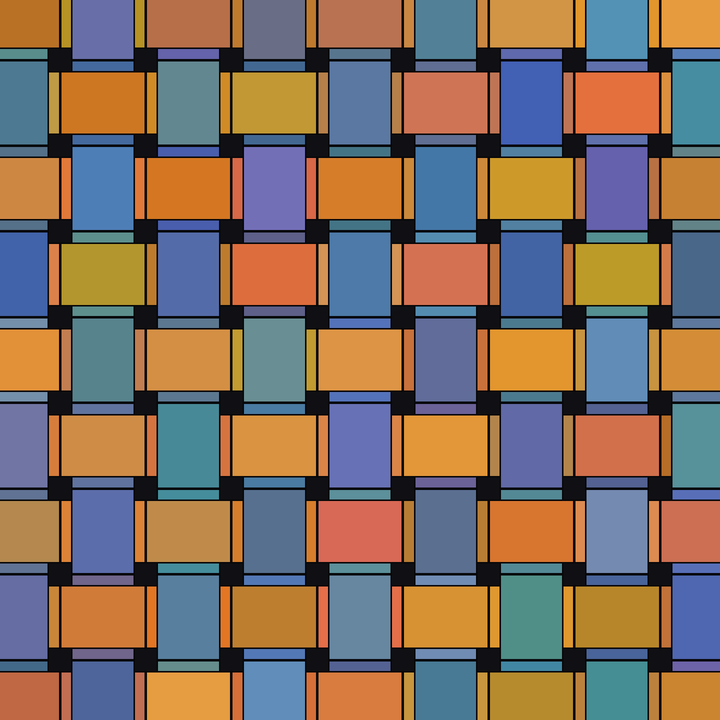
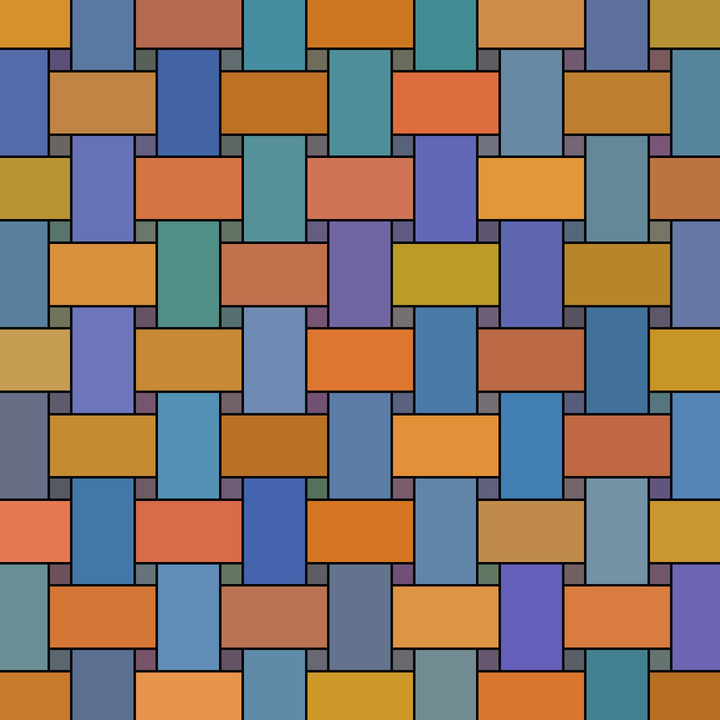
feat(shapes): wire voderberg + escher_lizard + weave (rejestr=35)
Ostatnie trzy ksztalty Fable z gotowa geometria w gen_fable_shape_schemes.

- voderberg: pierscienie wygietych klinow, wlasna liczba klinow na pierscien
  (~2*pi*r_mid/tang) => stala wielkosc komorki na kazdym promieniu; srodek =
  kliny zbiegajace sie w biegunie (arc_in pusty przy rin=0). Dwie stale ze
  schematu musialy stac sie zalezne od promienia: wygiecie krawedzi radialnej
  (stale 5 deg rozplaszczyloby kliny w luki przy skali kadru) i lista promieni
  -> stala grubosc pierscienia sqrt(2)*base_s, wygiecie jako jej ulamek
  (kliny 2:1 o polu ~base_s^2). Luki przez _sun_arc (sub-px, T-junctions OK).
- escher_lizard: port 1:1 (p1, deformacja heksagonu, translacje) ze skala
  s = base_s/sqrt(3*sqrt(3)/2).
- weave: PRZEBUDOWANY NA PARTYCJE. Schemat falszowal przeplot kolejnoscia
  malowania (skrzyzowania malowane 2x) i zostawial dziury tla — w silniku to
  dwa zdjecia na tych samych pikselach + czarne kwadraty. Komorka = WIDOCZNY
  kawalek wstegi (w x (2*pitch-w) na skrzyzowaniu "nad"; parzystosc (i+j)
  przydziela kazde skrzyzowanie dokladnie raz) + komorka-wezel (pitch-w)^2 w
  szczelinie. gen_weave i assets/shape_schemes/weave.png zregenerowane z tej
  samej geometrii — GUI pokazuje to, co silnik renderuje. Pozostale 9 schematow
  Fable zregenerowaly sie bit-w-bit (dowod determinizmu).

Bramki: rasteryzacja pokrycia (escher/weave 0% dziur, voderberg 0.01% / max 8 px
= sub-px T-junctions na lukach, mniej niz zaakceptowany sunburst 0.04%/11 px);
[…]

diff --git a/src/engine_smart.py b/src/engine_smart.py
@@ -1025,6 +1025,144 @@ def _gen_sunburst(engine, target_w, target_h, base_s):
         yield [(cx, cy)] + _sun_arc(r_in, a0, a1, cx, cy, seg)
 
 
+# --- Voderberg / escher_lizard / weave (last three Fable shapes) -----------
+# voderberg + escher_lizard are ported straight from gen_fable_shape_schemes.py
+# (image space, y-down, so the on-screen chirality matches the scheme PNGs);
+# only the hard-coded scheme scale is replaced by a base_s-driven one.
+def _gen_voderberg(engine, target_w, target_h, base_s):
+    """Voderberg-style spiral of bent slivers: concentric rings about the frame
+    centre, each ring split into its OWN wedge count (~2*pi*r_mid / tangential
+    size), so cells keep a constant size at every radius and the centre is a
+    ring of same-shaped slivers converging at the pole (the approved 'good
+    centre' pattern; ring 0 starts at r = 0, so `arc_in` is empty there).
+
+    Two scheme constants must become radius-relative in the engine, or they
+    break at frame scale: the radial edge bow was a fixed 5 deg (its lateral
+    size would then grow with r and the slivers would flatten into arcs), and
+    the ring radii were a fixed list. Here the ring thickness is constant
+    (sqrt(2)*base_s) and the bow is a fixed fraction of it, giving ~2:1 slivers
+    of area ~ base_s^2 everywhere. The two radial edges of a wedge are the same
+    curve shifted by one angular step, so they can never cross.
+
+    Ring boundaries are circles shared by rings with different wedge counts ->
+    T-junctions on the arcs, which is fine for a partition (the sunburst /
+    sierpinski-row precedent) as long as both sides polygonise the arc with the
+    same sub-pixel pitch: `_sun_arc`.
+    """
+    cx, cy = target_w / 2.0, target_h / 2.0
+    r_max = math.hypot(cx, cy) * 1.02
+    tang = base_s / math.sqrt(2.0)          # tangential cell size
+    thick = base_s * math.sqrt(2.0)         # radial ring thickness (2:1 sliver)
+    seg = max(4.0, base_s / 3.0)
+    nseg = max(6, int(thick / seg) + 1)     # radial edge polyline steps
+    base_off = 0.0
+    for m in range(int(math.ceil(r_max / thick))):
+        rin, rout = m * thick, (m + 1) * thick
+        r_mid = (rin + rout) / 2.0
+        nw = max(8, int(round(2.0 * math.pi * r_mid / tang)))
+        step = 2.0 * math.pi / nw
+        twist = step / 2.0                  # spiral shear, accumulates per ring
+        bow = min(0.5, 0.35 * thick / r_mid)
+
+        def radial(a):
+            pts = []
+            for i in range(nseg + 1):
+                t = i / nseg
+                r = rin + (rout - rin) * t
+                th = a + twist * t + bow * math.sin(math.pi * t)
+                pts.append((cx + r * math.cos(th), cy + r * math.sin(th)))
+            return pts
+
+        for k in range(nw):
+            a0 = base_off + k * step
+            a1 = a0 + step
+            arc_out = _sun_arc(rout, a0 + twist, a1 + twist, cx, cy, seg)[1:-1]
+            arc_in = ([] if rin == 0.0
+                      else _sun_arc(rin, a1, a0, cx, cy, seg)[1:-1])
+            yield radial(a0) + arc_out + list(reversed(radial(a1))) + arc_in
+        base_off += twist
+
+
+def _gen_escher(engine, target_w, target_h, base_s):
+    """Escher-style p1 'critter': a unit hexagon whose three independent edges
+    are deformed by a wavy polyline and copied, reversed and translated, onto
+    the three opposite edges (Conway criterion, translations only) -> an exact
+    tiling on the hex lattice. The deformation is area-preserving in the sense
+    that matters here: every tile is one lattice cell, so its area is the
+    hexagon's (3*sqrt(3)/2 units) and s = base_s / sqrt(3*sqrt(3)/2)."""
+    s = base_s / math.sqrt(1.5 * math.sqrt(3.0))
+    h = [cmath.exp(1j * math.radians(30 + 60 * k)) for k in range(6)]
+    off0 = [0.05, 0.20, 0.31, 0.29, 0.13, -0.09, -0.05]   # round head + neck dip
+    off1 = [0.13, -0.09, 0.17, -0.11, 0.11, -0.05]        # two stubby legs
+    off2 = [-0.09, -0.22, -0.15, 0.09, 0.25, 0.13]        # tail swoosh
+
+    def wavy(a, b, offsets):
+        v = b - a
+        n = v * 1j                      # left normal
+        m = len(offsets) + 1
+        return [a + v * (i / m) + n * off for i, off in enumerate(offsets, 1)]
+
+    e0 = [h[0]] + wavy(h[0], h[1], off0)
+    e1 = [h[1]] + wavy(h[1], h[2], off1)
+    e2 = [h[2]] + wavy(h[2], h[3], off2)
+    # each opposite edge = its partner reversed, translated by -(sum of the
+    # partner's endpoints): h[0]-(h[0]+h[1]) = -h[1] = h[4], etc.
+    boundary = e0 + e1 + e2
+    boundary += [z - (h[0] + h[1]) for z in reversed(e0 + [h[1]])][:-1]
+    boundary += [z - (h[1] + h[2]) for z in reversed(e1 + [h[2]])][:-1]
+    boundary += [z - (h[2] + h[3]) for z in reversed(e2 + [h[3]])][:-1]
+
+    t1 = complex(math.sqrt(3.0), 0) * s
+    t2 = complex(math.sqrt(3.0) / 2, 1.5) * s
+    m0, m1, n0, n1 = _lattice_mn_range(t1, t2, target_w, target_h,
+                                       pad=2.0 * s)   # critter bulge ~1.35 units
+    for m in range(m0, m1 + 1):
+        for n in range(n0, n1 + 1):
+            c = m * t1 + n * t2
+            yield [((c + z * s).real, (c + z * s).imag) for z in boundary]
+
+
+def _gen_weave(engine, target_w, target_h, base_s):
+    """Plain over/under basketweave, rebuilt as a TRUE partition.
+
+    The scheme (gen_fable_shape_schemes.gen_weave, rev 2026-07-13) drew whole
+    ribbon cells and faked the interlacing by paint order: crossing squares were
+    painted twice and the gaps between four ribbons stayed background. Both are
+    illegal in the engine (overlapping sectors = two photos fighting for the
+    same pixels; holes = black squares), so the cells are the VISIBLE pieces:
+
+      * ribbon width w = 0.74 * pitch; a ribbon is hidden exactly at its
+        under-crossings, so its visible piece runs from one under-crossing to
+        the next -> a w x (2*pitch - w) rectangle centred on the over-crossing
+        it covers. Parity (i + j) % 2 decides which ribbon is on top, so every
+        crossing square is claimed exactly once.
+      * the (pitch - w)^2 square left between four ribbons becomes a 'knot'
+        cell of its own (the small tile of a mixed tiling, as in rhombitrihex).
+
+    Dominant tile = the ribbon cell, area w*(2*pitch - w) = 0.9324*pitch^2, so
+    pitch = base_s / sqrt(0.9324) keeps it at ~ base_s^2.
+    """
+    pitch = base_s / math.sqrt(0.9324)
+    w = 0.74 * pitch
+    half = w / 2.0
+    arm = pitch - half                  # cell half-length along the ribbon
+    ni = int(target_w / pitch) + 3
+    nj = int(target_h / pitch) + 3
+    for i in range(-1, ni):
+        for j in range(-1, nj):
+            xc, yc = i * pitch, j * pitch
+            if (i + j) % 2 == 1:        # vertical ribbon on top here
+                yield [(xc - half, yc - arm), (xc + half, yc - arm),
+                       (xc + half, yc + arm), (xc - half, yc + arm)]
+            else:                       # horizontal ribbon on top here
+                yield [(xc - arm, yc - half), (xc + arm, yc - half),
+                       (xc + arm, yc + half), (xc - arm, yc + half)]
+            # knot: the square gap between the four ribbons up-right of (i, j)
+            yield [(xc + half, yc + half), (xc + pitch - half, yc + half),
+                   (xc + pitch - half, yc + pitch - half),
+                   (xc + half, yc + pitch - half)]
+
+
 @dataclass(frozen=True)
 class ShapeSpec:
     """Descriptor for one tile shape.
@@ -1080,6 +1218,9 @@ SHAPE_MODES = {
     "sunburst":                 ShapeSpec("polygon", _gen_sunburst, aa=4),
     "penrose":                  ShapeSpec("polygon", _gen_penrose, aa=4),
     "ammann_beenker":           ShapeSpec("polygon", _gen_ammann_beenker, aa=4),
+    "voderberg":                ShapeSpec("polygon", _gen_voderberg, aa=4),
+    "escher_lizard":            ShapeSpec("polygon", _gen_escher, aa=4),
+    "weave":                    ShapeSpec("polygon", _gen_weave, aa=4),
 }
 
 

diff --git a/src/tools/gen_fable_shape_schemes.py b/src/tools/gen_fable_shape_schemes.py
@@ -532,40 +532,40 @@ def gen_escher():
 # 20. WEAVE (interlaced photo ribbons)
 # ==========================================
 def gen_weave():
+    """Rev 2026-07-13 (wiring): the first version faked the interlacing with
+    paint order (crossing squares painted twice) and left the gaps between four
+    ribbons as background. That is not a partition — in the engine overlapping
+    cells mean two photos fighting for the same pixels and the gaps come out
+    black. Rebuilt as the exact partition the engine renders (`_gen_weave`):
+
+      * a ribbon is hidden precisely at its under-crossings, so its VISIBLE
+        piece runs from one under-crossing to the next: a w x (2 - w) rectangle
+        centred on the over-crossing it covers. Parity (i + j) % 2 picks the
+        ribbon on top, so every crossing square belongs to exactly one cell.
+      * the (1 - w)^2 square between four ribbons becomes its own 'knot' cell.
+    """
     rng = np.random.default_rng(20)
-    # rendered directly (occlusion needs paint order), so build rect polys in order
     w = 0.74
+    half = w / 2
+    arm = 1.0 - half          # cell half-length along the ribbon
     N = 9
     warm = (205, 130, 60)
     cool = (90, 120, 160)
+    knot = (105, 100, 110)
     polys = []
-
-    def cells(vert, idx):
-        """One ribbon as a list of cell rectangles with varied colours."""
-        out = []
-        for k in range(-1, N + 1):
-            if vert:
-                rect = [(idx - w / 2, k - 0.5), (idx + w / 2, k - 0.5),
-                        (idx + w / 2, k + 0.5), (idx - w / 2, k + 0.5)]
-            else:
-                rect = [(k - 0.5, idx - w / 2), (k + 0.5, idx - w / 2),
-                        (k + 0.5, idx + w / 2), (k - 0.5, idx + w / 2)]
-            out.append((rect, vary(rng, cool if vert else warm, 26), k))
-        return out
-
-    # paint verticals, then horizontals, then re-paint vertical over-crossings
-    vribbons = {j: cells(True, j) for j in range(N)}
-    hribbons = {i: cells(False, i) for i in range(N)}
-    for j in range(N):
-        for rect, col, k in vribbons[j]:
-            polys.append((rect, col))
-    for i in range(N):
-        for rect, col, k in hribbons[i]:
-            polys.append((rect, col))
-    for j in range(N):
-        for rect, col, k in vribbons[j]:
-            if 0 <= k < N and (k + j) % 2 == 1:  # vertical on top
-                polys.append((rect, col))
+    for i in range(-1, N + 1):
+        for j in range(-1, N + 1):
+            if (i + j) % 2 == 1:   # vertical ribbon on top at this crossing
+                polys.append(([(i - half, j - arm), (i + half, j - arm),
+                               (i + half, j + arm), (i - half, j + arm)],
+                              vary(rng, cool, 26)))
+            else:                  # horizontal ribbon on top
+                polys.append(([(i - arm, j - half), (i + arm, j - half),
+                               (i + arm, j + half), (i - arm, j + half)],
+                              vary(rng, warm, 26)))
+            polys.append(([(i + half, j + half), (i + 1 - half, j + half),
+                           (i + 1 - half, j + 1 - half), (i + half, j + 1 - half)],
+                          vary(rng, knot, 20)))
     return polys, (-0.2, -0.2, N - 0.8, N - 0.8)
 
 

diff --git a/tests/test_golden_shapes.py b/tests/test_golden_shapes.py
@@ -101,6 +101,17 @@ GOLDEN = {
[3 lines of base64/hex data omitted]
+    # Last three Fable shapes (2026-07-13): voderberg (rings of bent slivers,
+    # bow made radius-relative), escher_lizard (p1 hexagon deformation) and
+    # weave (basketweave rebuilt as a true partition: visible ribbon pieces +
+    # knot cells). Pure constructions (no RNG); hashes lock the first render,
+    # verified identical across two separate processes.
[6 lines of base64/hex data omitted]
 }
 
 

diff --git a/PLAN_SHAPES.md b/PLAN_SHAPES.md
@@ -28,9 +28,9 @@ Pogrupowane po wspólnej maszynerii (nie po autorze propozycji):
 | S3 | penrose, ammann_beenker | multigrid de Bruijna (1 implementacja, N=5 i N=4) |
 | S4 | pinwheel, gosper, cairo, floret, pythagorean | czyste konstrukcje deterministyczne (substytucja/lattice) |
 | S5 | voronoi, phyllotaxis, poincare | zmienna wielkość komórek: seeded RNG + próg min-area |
-| S6 | sunburst, voderberg, trunc_square, trunc_hex, rhombitrihex | polar (polygonizacja łuków) + archimedesowe |
-| S7 | girih, escher_lizard | geometria „projektowana" (patrz wyzwania) |
-| S8 | truchet, truchet_hex (`_CurvedMask`), weave (z-order) | Tier B — nowa maszyneria maskowania/kompozycji |
+| S6 | sunburst, voderberg, trunc_square, trunc_hex, rhombitrihex | polar (polygonizacja łuków) + archimedesowe — **ZROBIONE** |
+| S7 | girih, escher_lizard | geometria „projektowana" (patrz wyzwania) — **escher_lizard ZROBIONY**; girih został |
+| S8 | truchet, truchet_hex, weave | ~~Tier B~~ — `_CurvedMask` odrzucony (2026-07-11), weave = partycja (2026-07-13, **ZROBIONY**); zostaje truchet ×2 jako zwykłe `polygon` |
 | S9 | docs (README EN+PL), montaż zbiorczy 20, mozaiki testowe dla usera | zamknięcie |
 
 ## Geometria — konkrety i pułapki per kształt
@@ -67,7 +67,7 @@ Pogrupowane po wspólnej maszynerii (nie po autorze propozycji):
 
 ### S8: Tier B
 - **truchet/truchet_hex:** przed budową `_CurvedMask` zrobić **prototyp 1 kafelka** i pokazać userowi — siła truchet to rysunek łuków, nie kształt maski; efekt fotomozaiki może rozczarować. Decyzja go/no-go po prototypie. `_CurvedMask` = maska z `ImageDraw.pieslice`/arc na supersamplu, ten sam kontrakt co `_LazyMask` (deterministyczna re-rasteryzacja przy kompozycie).
-- **weave:** NIE jest partycją — komórki wstęg nakładają się na skrzyżowaniach. Kolejność malarska: pionowe → poziome → łatki „nad" (parzystość (i+j)); kolejność MUSI być deterministyczna. Maski prostokątne (zwykłe), ale kompozycja sekwencyjna zamiast rozłącznej — sprawdzić, czy `alpha_composite` w obecnej pętli zachowuje kolejność `sectors_data` (zachowuje: iteracja listy). Cień/przerwa między wstęgami = parametr tła.
+- **weave — ROZSTRZYGNIĘTE 2026-07-13 (wdrożone):** pierwotny zapis („nie jest partycją, kompozycja sekwencyjna z-order, przerwa między wstęgami = tło") jest **UNIEWAŻNIONY** przez twardą regułę usera z 2026-07-03 (każdy kształt = prawdziwa teselacja brzeg-w-brzeg, bez nakładek i bez luk). W silniku nakładki = dwa zdjęcia walczące o piksele, a przerwy = czarne kwadraty. Wdrożona **partycja**: komórka = WIDOCZNY kawałek wstęgi (wstęga znika dokładnie na swoich skrzyżowaniach „pod", więc jej widoczny kawałek biegnie od jednego takiego skrzyżowania do następnego → prostokąt `w × (2·pitch − w)` wyśrodkowany na skrzyżowaniu „nad"; parzystość `(i+j)` przydziela każde skrzyżowanie dokładnie jednej wstędze) + **komórka-węzeł** `(pitch − w)²` w dziurze między czterema wstęgami (mały kafel teselacji mieszanej, jak trójkąty w rhombitrihex). Schemat `assets/shape_schemes/weave.png` zregenerowany z tej samej geometrii (`gen_weave`, rev 2026-07-13) — GUI pokazuje to, co silnik naprawdę renderuje. Dominujący kafel: `pitch = base_s/√0.9324`.
 
 ## Wyzwania przekrojowe (checklista przed każdym sprintem)
 
